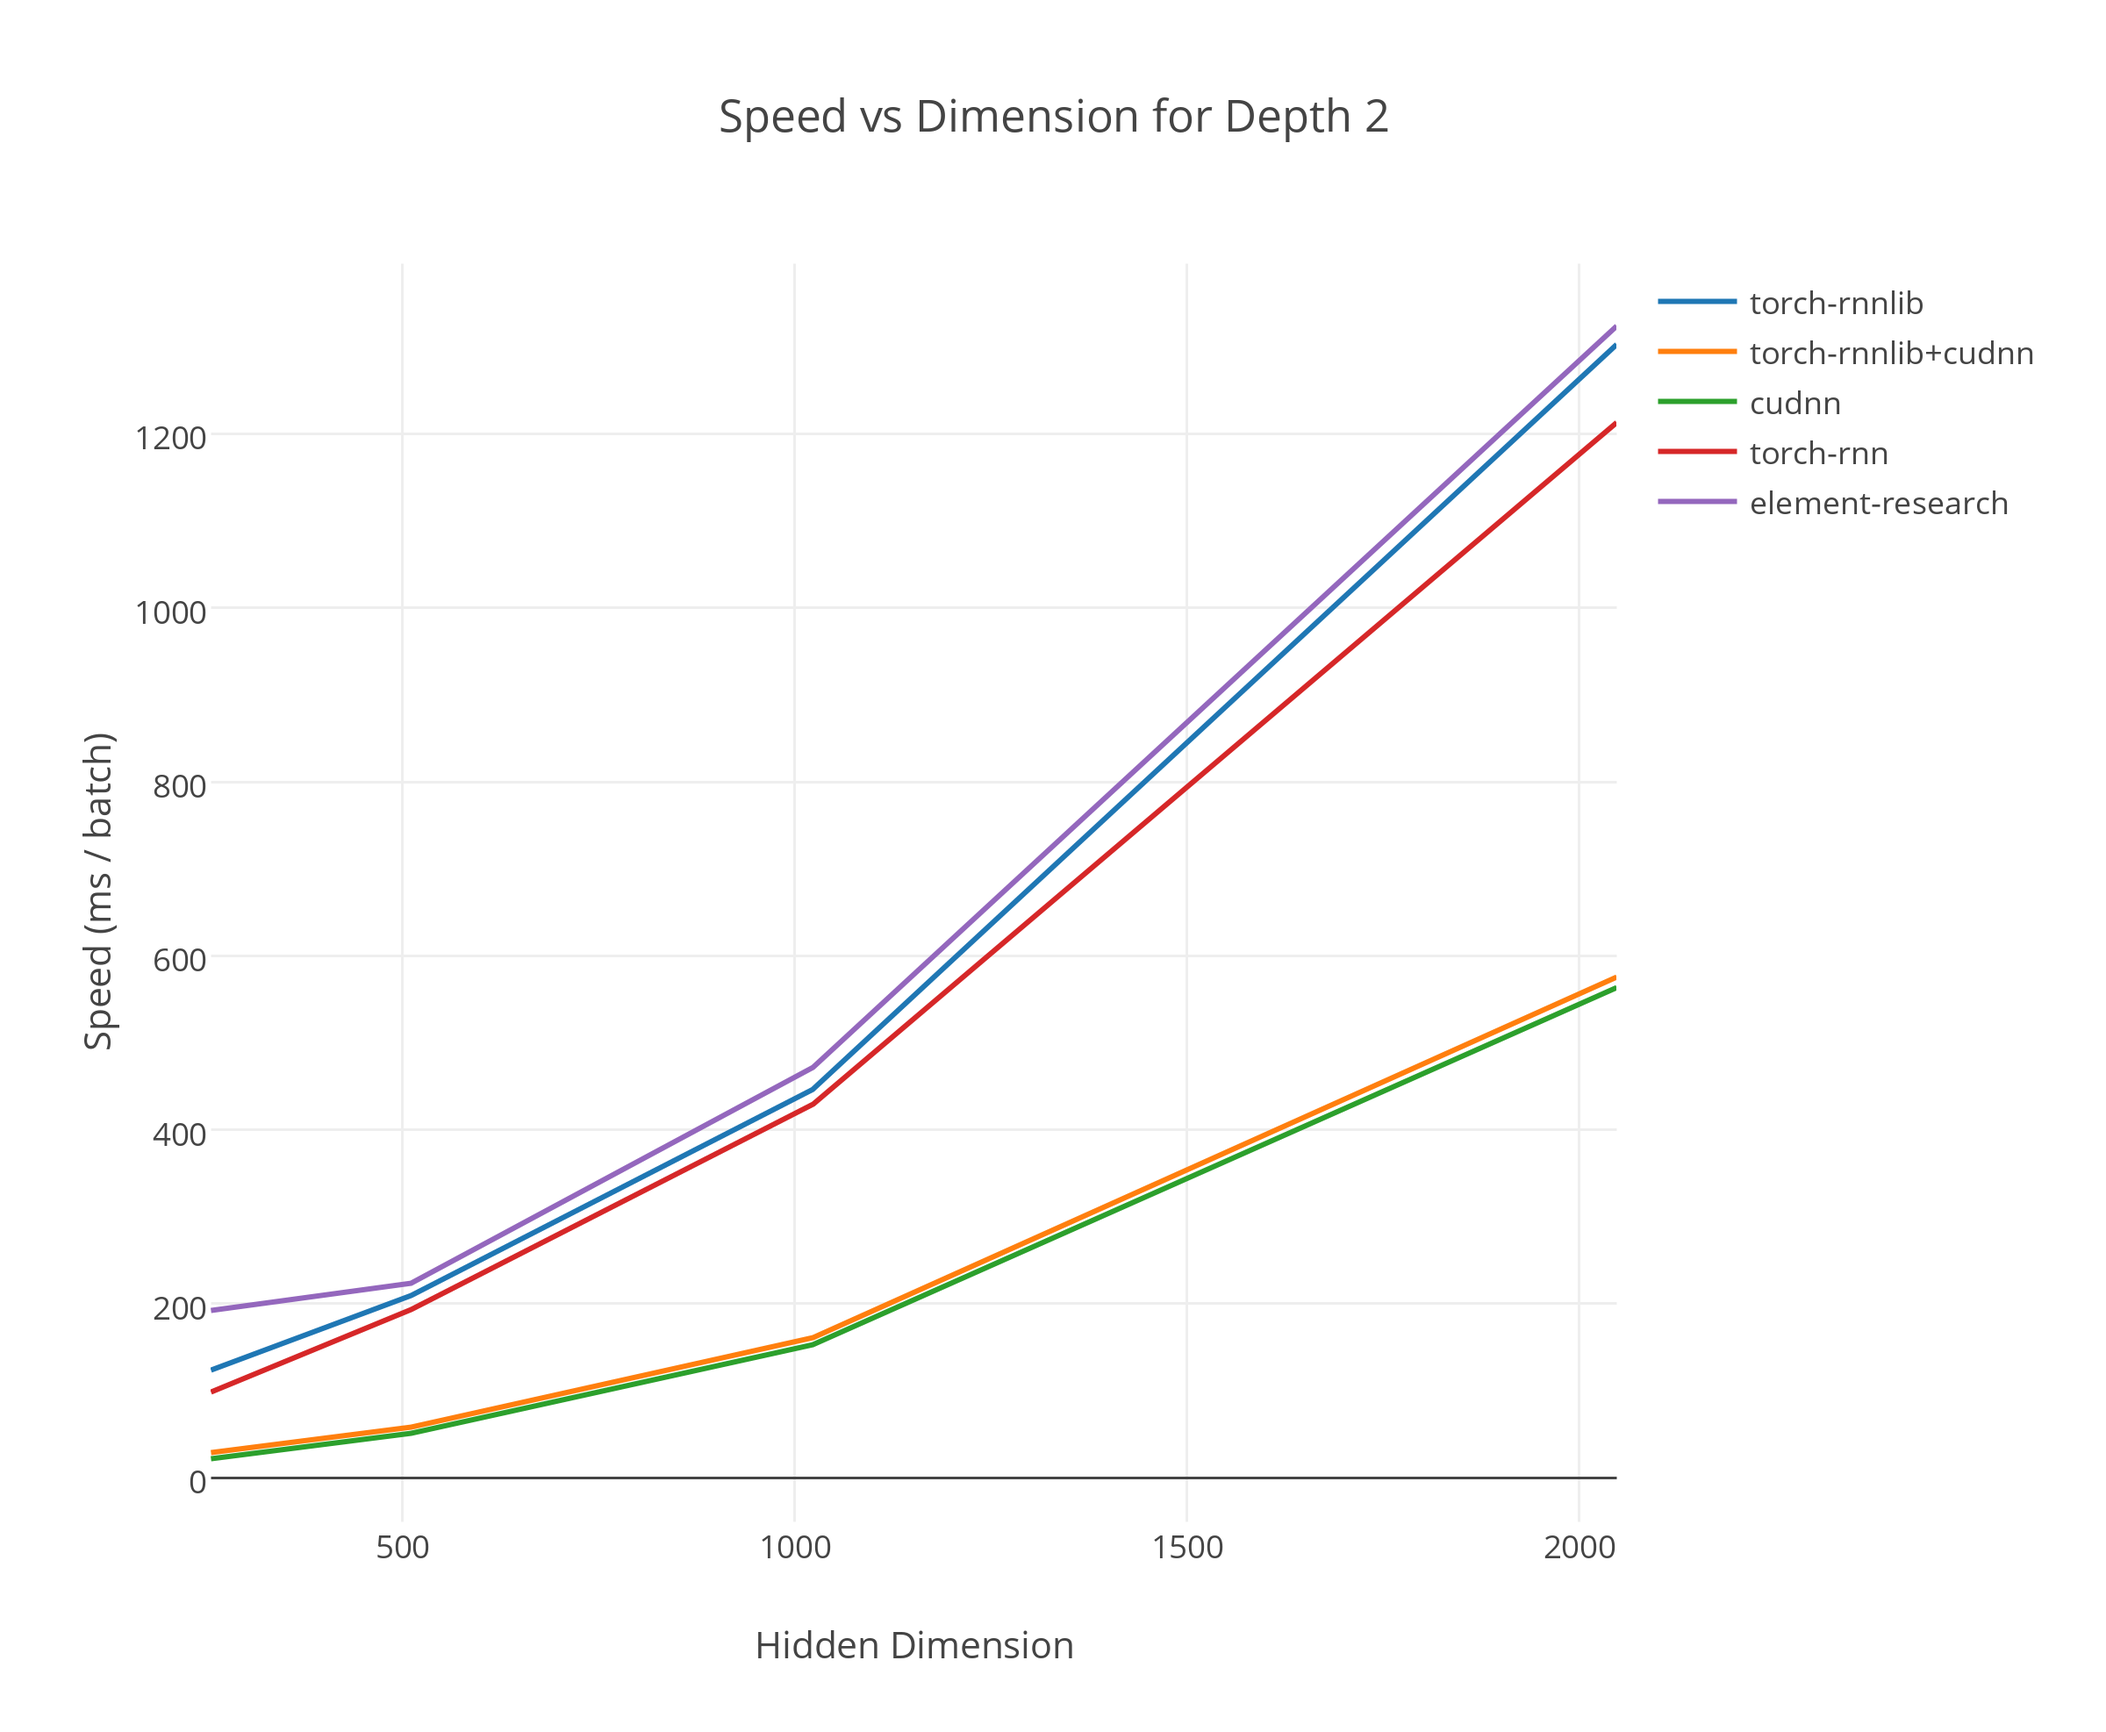
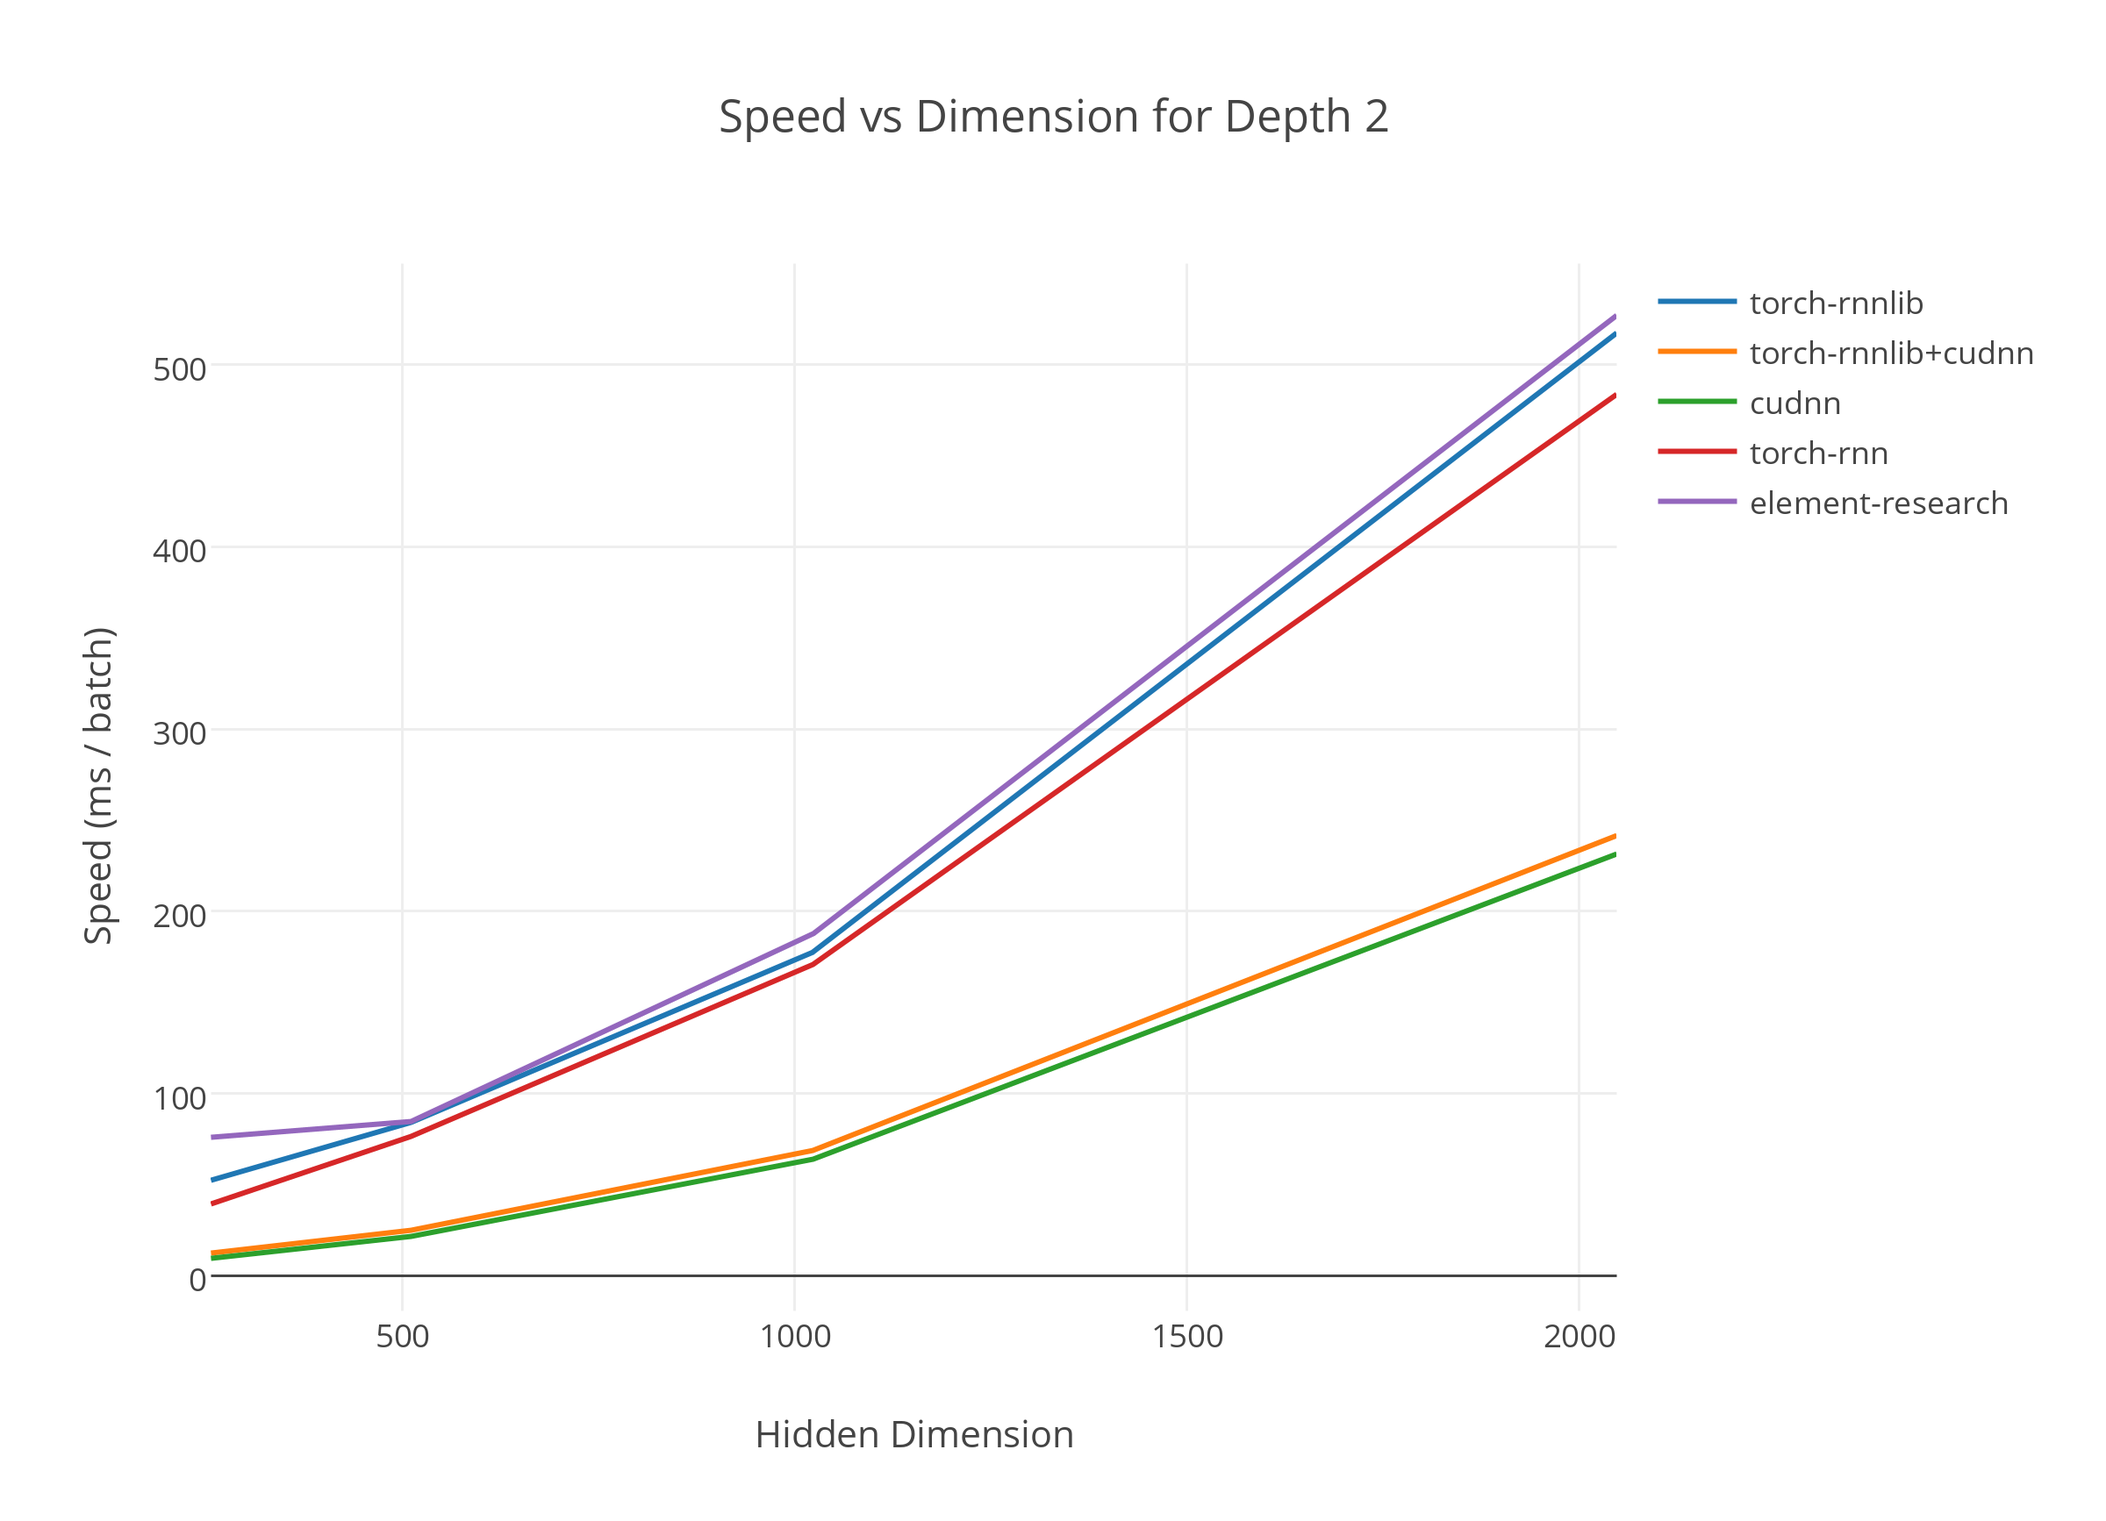
Re-introduce resize and getParameters and shorten bptt in bench to 20

diff --git a/README.md b/README.md
@@ -42,7 +42,7 @@ local rnnlib = require 'rnnlib'
 local lstm   = rnnlib.makeRecurrent{
     cellfn    = rnnlib.cell.LSTM,
     inputsize = 256,
-    hids      = { 512, 512 },
+    hids      = { 512, 512, 512 },
 }
 ```
 There is also a Cudnn wrapper for this level.
@@ -51,7 +51,7 @@ local rnnlib = require 'rnnlib'
 local lstm   = rnnlib.makeCudnnRecurrent{
     cellstring = 'LSTM',
     inputsize  = 256,
-    hids       = { 512, 512 },
+    hids       = { 512, 512, 512 },
 }
 ```
 3\. The nn.SequenceTable interface can be used to chain computations as a 'scan' would. The nn.RecurrentTable constructor is simply a lightweight wrapper that clones the recurrent module over time for you. However, do take note that this is the lowest-level interface and you will have to call `rnnlib.setupRecurrent(model, initializationfunctions)` in order to setup the recurrent hidden state behaviour.
@@ -131,7 +131,7 @@ model:updateParameters(0.1)
 We benchmark against the good work done in similar RNN libraries,
 [rnn](https://github.com/Element-Research/rnn) and [torch-rnn](https://github.com/jcjohnson/torch-rnn),
 on the Penn Tree Bank dataset with an LSTM language model with hidden dimensions of 256, 512, 1024, 2048, and 4096.
-All models have a sequence length of 50, a batch size of 64, 2 layers, and were averaged over 1000 iterations.
+All models have a sequence length of 20, a batch size of 64, 2 layers, and were averaged over 1000 iterations.
 
 <img src='imgs/rnnbench.png' width="800px">
 
